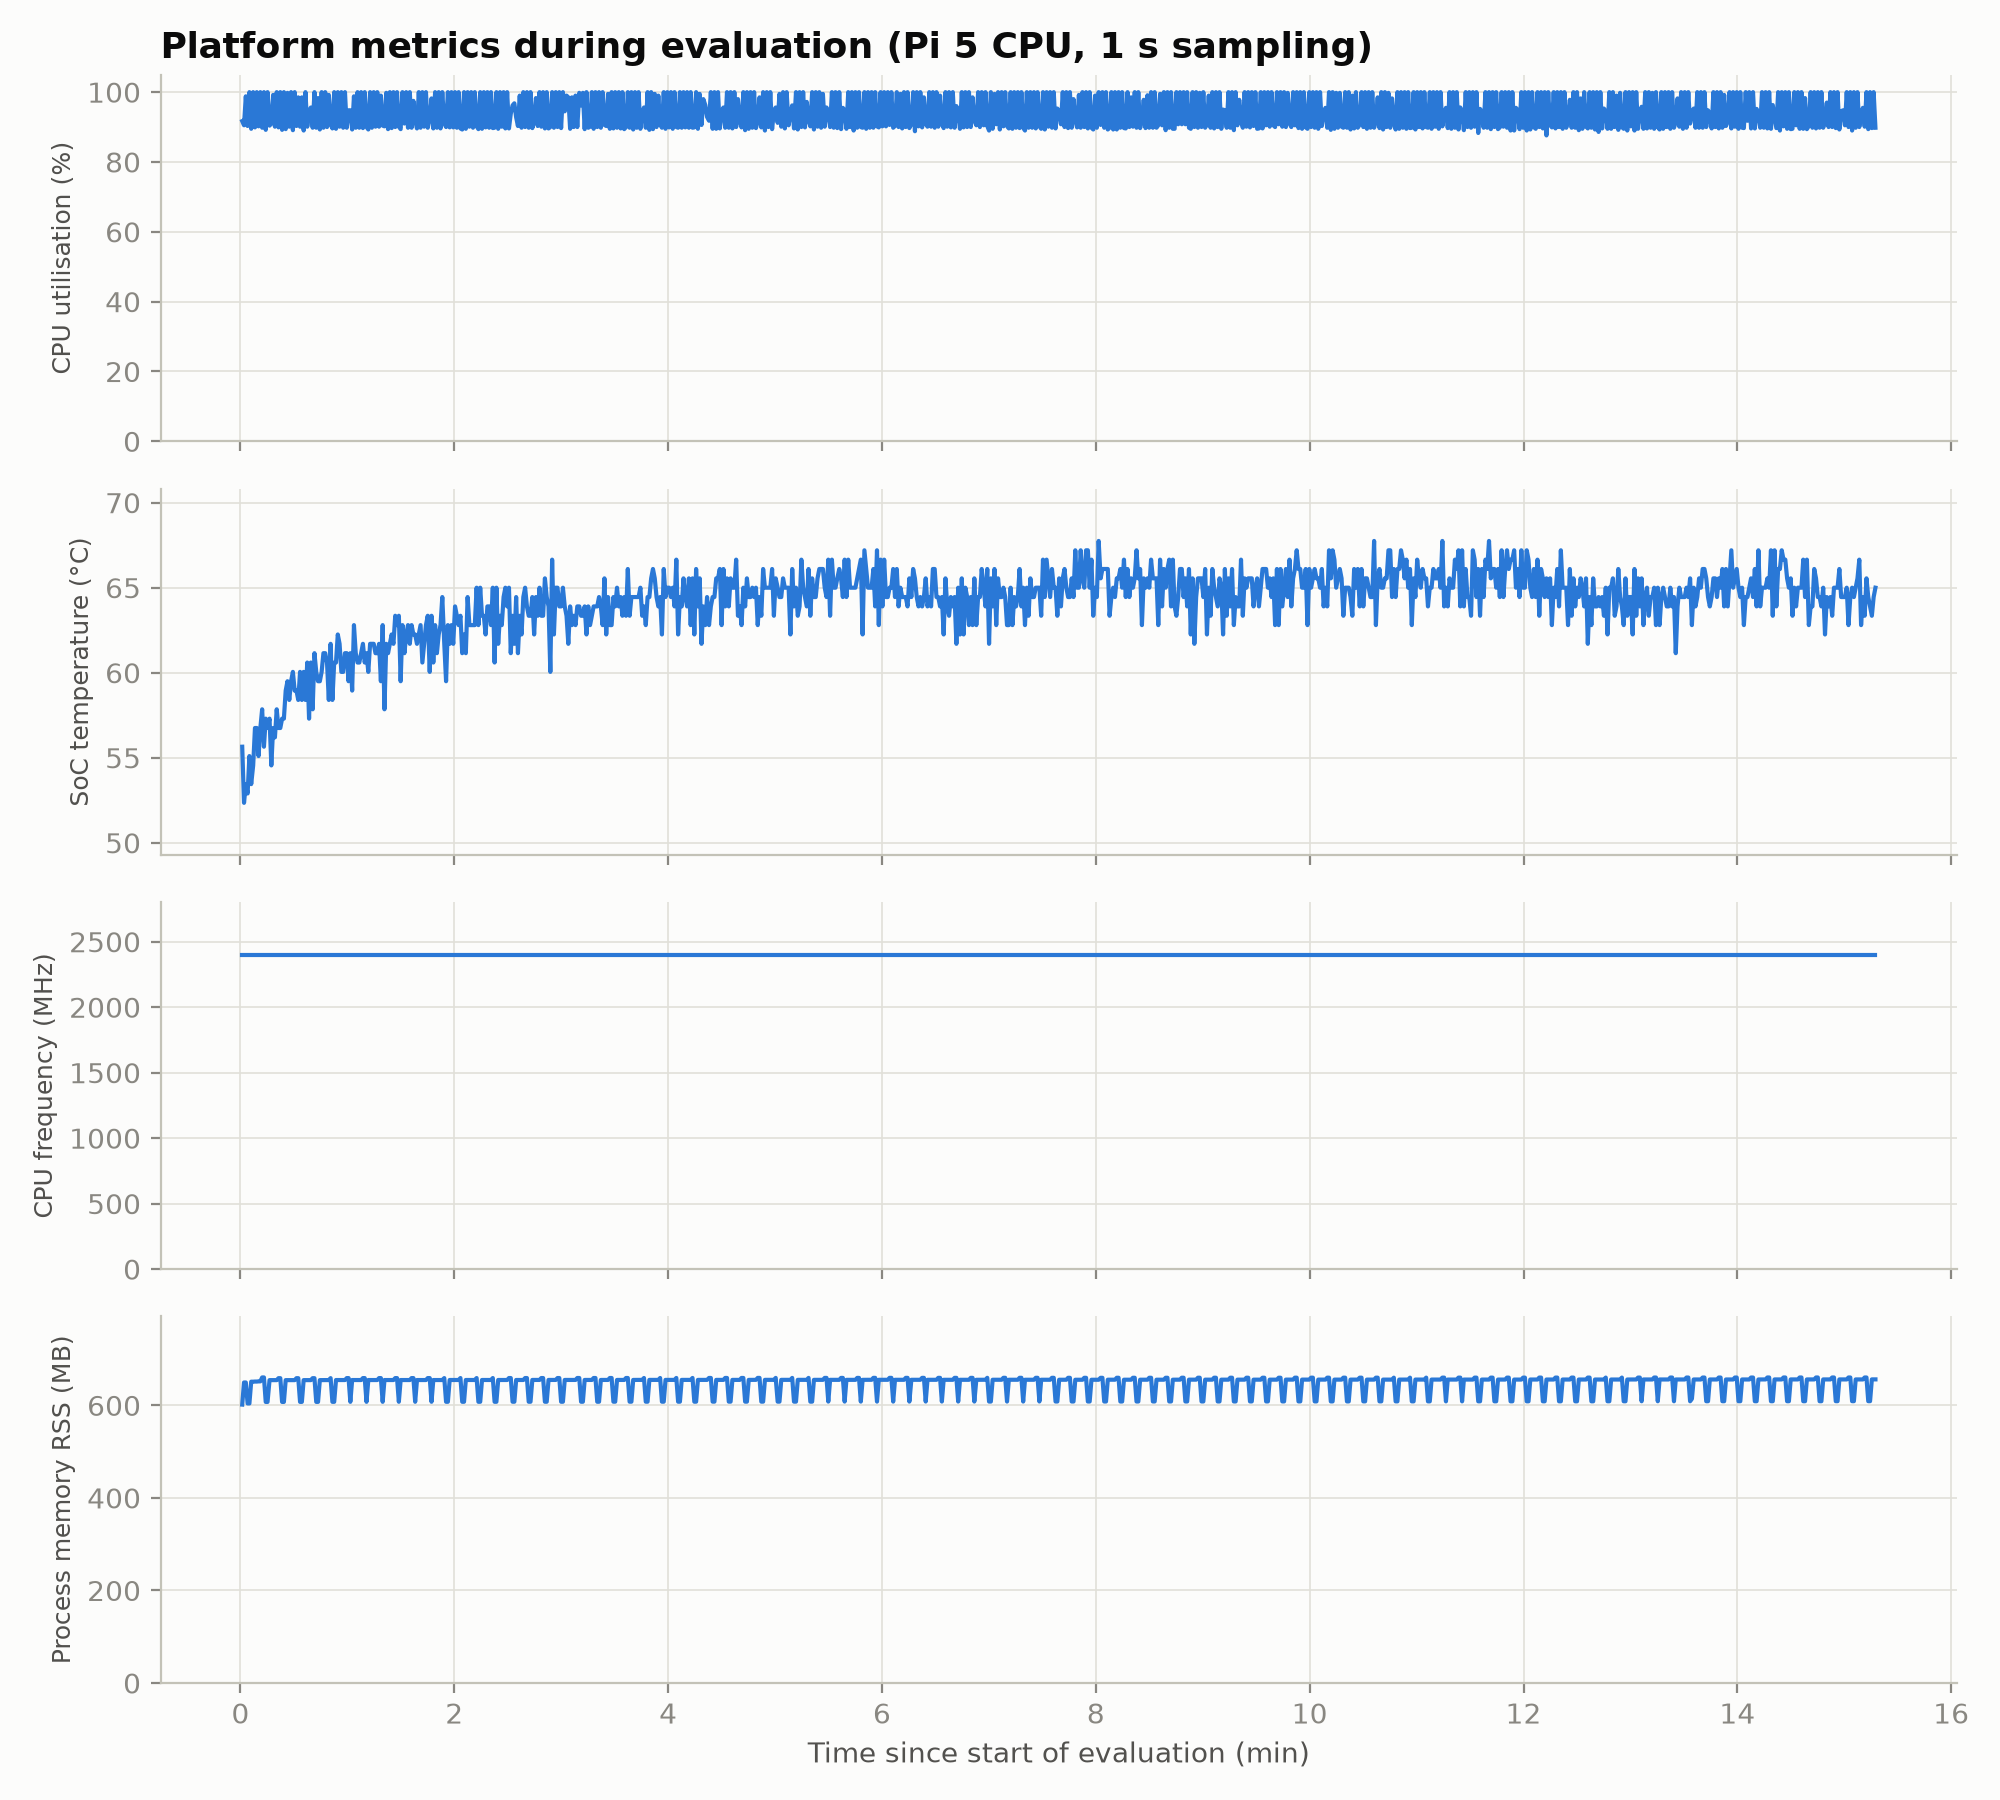
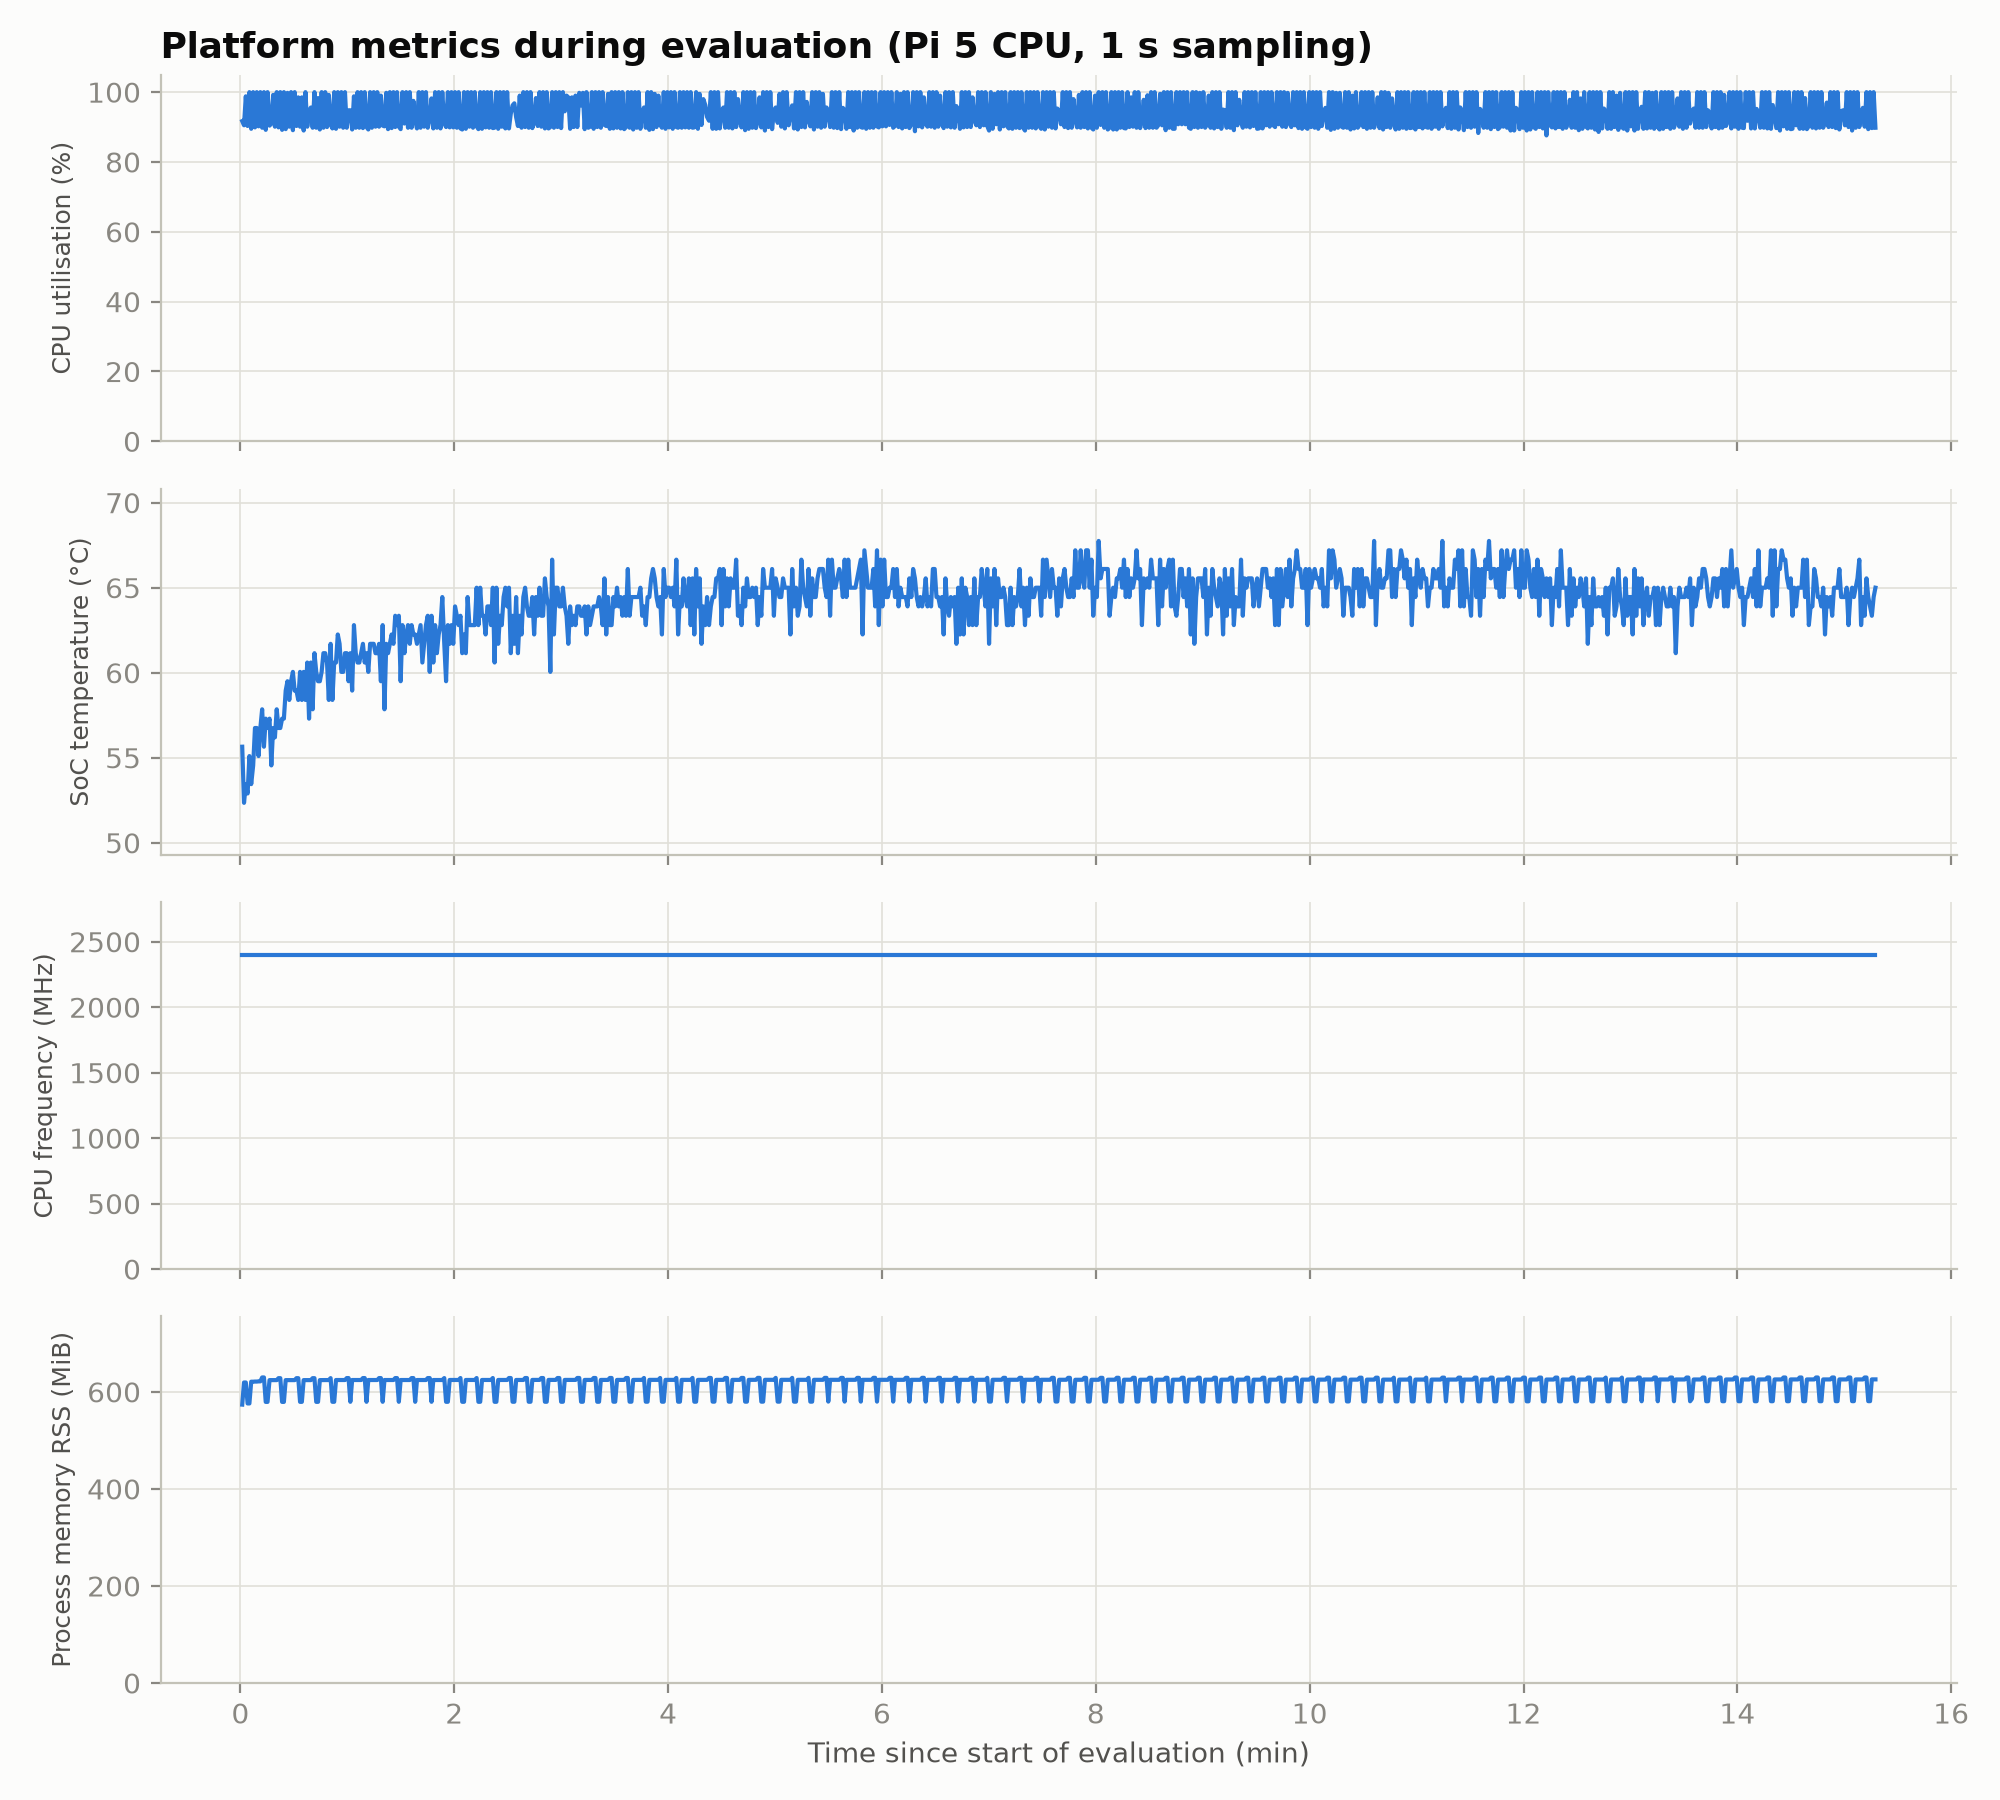
Modified the memory readings so there is a match between psutil and free -m readings, MB and MiB

Changed region(s): [[0.0, 0.7467, 0.093, 0.84], [0.031, 0.8711, 0.062, 0.9022]]

diff --git a/segmentation/semantic/01_fcn/fcn8_resnet18/run_eval.py b/segmentation/semantic/01_fcn/fcn8_resnet18/run_eval.py
@@ -2,7 +2,8 @@
 
 Writes to --out-dir:
   per_image.csv      one row per image: ISO timestamp, per-stage latency (load/pre/infer/post), pixel accuracy
-  system.csv         background samples every --interval s: CPU % (total + per core), freq, SoC temp, throttling, RAM, process RSS
+  system.csv         background samples every --interval s: CPU % (total + per core), freq, SoC temp, throttling,
+                     RAM used, page cache (buff/cache), process RSS - memory in MiB (2^20 bytes, as `free -m`)
   per_class_iou.csv  IoU for each of the 19 Cityscapes classes
   summary.json       mIoU, pixel accuracy, latency stats (mean/std/p50/p95), FPS, platform stats, environment
 
@@ -41,6 +42,7 @@ LABEL_TO_TRAIN = {7: 0, 8: 1, 11: 2, 12: 3, 13: 4, 17: 5, 19: 6, 20: 7, 21: 8, 2
 # MMSegmentation ImageNet normalization, RGB order (confirmed by the sanity check: RGB beats BGR).
 MEAN = np.array([123.675, 116.28, 103.53], np.float32)
 STD = np.array([58.395, 57.12, 57.375], np.float32)
+MIB = 2 ** 20  # memory is logged in MiB, the unit `free -m` reports
 
 
 def read_sysfs(path, scale):
@@ -74,6 +76,7 @@ class SystemMonitor(threading.Thread):
         t0 = time.monotonic()
         while not self.stop_event.wait(self.interval):
             per_core = psutil.cpu_percent(percpu=True)
+            vm = psutil.virtual_memory()
             self.rows.append({
                 "timestamp": datetime.now().isoformat(),
                 "elapsed_s": round(time.monotonic() - t0, 3),
@@ -83,9 +86,10 @@ class SystemMonitor(threading.Thread):
                 "cpu_freq_MHz": read_sysfs("/sys/devices/system/cpu/cpu0/cpufreq/scaling_cur_freq", 1000),
                 "soc_temp_C": read_sysfs("/sys/class/thermal/thermal_zone0/temp", 1000),
                 "throttled_flags_hex": read_throttled(),
-                "memory_percent": psutil.virtual_memory().percent,
-                "memory_used_MB": round(psutil.virtual_memory().used / 1e6, 1),
-                "process_rss_MB": round(self.proc.memory_info().rss / 1e6, 1),
+                "memory_percent": vm.percent,
+                "memory_used_MiB": round(vm.used / MIB, 1),
+                "memory_buff_cache_MiB": round((vm.buffers + vm.cached) / MIB, 1),
+                "process_rss_MiB": round(self.proc.memory_info().rss / MIB, 1),
             })
 
     def stop(self):
@@ -114,7 +118,9 @@ def environment_info(args, sess):
         "intra_op_threads": args.threads,
         "start_soc_temp_C": read_sysfs("/sys/class/thermal/thermal_zone0/temp", 1000),
         "start_throttled": read_throttled(),
-        "start_memory_used_MB": round(psutil.virtual_memory().used / 1e6, 1),
+        "memory_total_MiB": round(psutil.virtual_memory().total / MIB, 1),
+        "start_memory_used_MiB": round(psutil.virtual_memory().used / MIB, 1),
+        "start_memory_buff_cache_MiB": round((psutil.virtual_memory().buffers + psutil.virtual_memory().cached) / MIB, 1),
     }
 
 
@@ -254,8 +260,9 @@ def main():
             "cpu_total_percent": stats([r["cpu_total_percent"] for r in sysr]),
             "soc_temp_C": stats([r["soc_temp_C"] for r in sysr if r["soc_temp_C"] is not None]),
             "cpu_freq_MHz": stats([r["cpu_freq_MHz"] for r in sysr if r["cpu_freq_MHz"] is not None]),
-            "process_rss_MB": stats([r["process_rss_MB"] for r in sysr]),
-            "memory_used_MB": stats([r["memory_used_MB"] for r in sysr]),
+            "process_rss_MiB": stats([r["process_rss_MiB"] for r in sysr]),
+            "memory_used_MiB": stats([r["memory_used_MiB"] for r in sysr]),
+            "memory_buff_cache_MiB": stats([r["memory_buff_cache_MiB"] for r in sysr]),
             "throttled_flags_seen": sorted({r["throttled_flags_hex"] for r in sysr if r["throttled_flags_hex"]}),
         },
         "environment": env,

diff --git a/segmentation/semantic/01_fcn/fcn8_resnet18/plot_results.py b/segmentation/semantic/01_fcn/fcn8_resnet18/plot_results.py
@@ -17,6 +17,7 @@ import matplotlib.pyplot as plt  # noqa: E402
 BLUE, ORANGE = "#2a78d6", "#eb6834"
 INK, INK2, MUTED, GRID, AXIS, SURFACE = "#0b0b0b", "#52514e", "#898781", "#e1e0d9", "#c3c2b7", "#fcfcfb"
 HAILO_REF_MIOU = 69.4  # Hailo Model Zoo, fcn8_resnet_v1_18 float mIoU on Cityscapes
+MIB = 2 ** 20
 
 plt.rcParams.update({
     "figure.facecolor": SURFACE, "axes.facecolor": SURFACE, "savefig.facecolor": SURFACE,
@@ -98,12 +99,25 @@ def latency_per_image(rows, out):
     plt.close(fig)
 
 
+def to_mib(container, name):
+    """Memory field `name` in MiB. Runs before 2026-10-13 logged MB (10^6 bytes) as `<name>_MB`;
+    newer runs log MiB (2^20 bytes, as `free -m`) as `<name>_MiB`."""
+    if f"{name}_MiB" in container:
+        return container[f"{name}_MiB"]
+    v = container[f"{name}_MB"]
+    if isinstance(v, dict):  # summary.json stats block
+        return {k: round(x * 1e6 / MIB, 2) for k, x in v.items()}
+    return round(float(v) * 1e6 / MIB, 1)
+
+
 def platform_timeline(rows, out):
     t = [float(r["elapsed_s"]) / 60 for r in rows]
+    for r in rows:
+        r["process_rss_MiB"] = to_mib(r, "process_rss")
     panels = [("cpu_total_percent", "CPU utilisation (%)", (0, 105)),
               ("soc_temp_C", "SoC temperature (°C)", None),
               ("cpu_freq_MHz", "CPU frequency (MHz)", (0, 2800)),
-              ("process_rss_MB", "Process memory RSS (MB)", "zero")]
+              ("process_rss_MiB", "Process memory RSS (MiB)", "zero")]
     fig, axes = plt.subplots(len(panels), 1, figsize=(10, 9), sharex=True)
     for ax, (key, label, ylim) in zip(axes, panels):
         vals = [float(r[key]) if r[key] not in ("", "None") else float("nan") for r in rows]
@@ -139,7 +153,8 @@ def summary_table(s, out):
         ("CPU utilisation mean (%)", p["cpu_total_percent"].get("mean")),
         ("SoC temperature mean / max (°C)", f"{p['soc_temp_C'].get('mean')} / {p['soc_temp_C'].get('max')}"),
         ("CPU frequency min (MHz)", p["cpu_freq_MHz"].get("min")),
-        ("Process RSS max (MB)", p["process_rss_MB"].get("max")),
+        ("Process RSS mean / max (MiB)", f"{to_mib(p, 'process_rss')['mean']} / {to_mib(p, 'process_rss')['max']}"),
+        ("System RAM used mean / max (MiB)", f"{to_mib(p, 'memory_used')['mean']} / {to_mib(p, 'memory_used')['max']}"),
         ("Throttling flags seen", " ".join(p["throttled_flags_seen"]) or "none"),
         ("ONNX Runtime threads", s["environment"]["intra_op_threads"]),
     ]

diff --git a/segmentation/plan/PENDING.md b/segmentation/plan/PENDING.md
@@ -30,6 +30,8 @@ Things deferred until first results are in. Tick off as they are done.
 ## Platform profiling framework (Performance-Profiling-for-Edge-Devices)
 - [ ] Integrate the framework (github.com/sameer302/Performance-Profiling-for-Edge-Devices) for proper platform runs: clone as git submodule, per-experiment `experiment_config.json`, `PROTOCOL.md` (§4f), workload CSV with ISO `timestamp`, SIGTERM flush, warm-up, core pinning (monitor core 0, workload cores 1-3), 3 reps with 45-50°C cool-down, run outside Claude Code (§2)
 - [ ] Shared workload-side helper in `segmentation/common/` (per-stage timing, ISO timestamps, buffered CSV, SIGTERM flush)
+- [ ] Toolkit: log memory in MiB (2^20 bytes, as `free -m`) instead of MB (10^6) in `platform_monitor.py` (total RAM/swap print, `process_memory_rss_MB`), to match `run_eval.py` (switched to MiB on 2026-10-13)
+- [ ] Control page-cache state per run (cold: `drop_caches`, or warm: untimed pass) and log `buff/cache`; optional cold-vs-warm load-stage test (100 images)
 - [ ] Toolkit improvements before large sweeps: end workload phase when workload process exits; non-interactive pre-flight (wait-for-temperature or abort); sweep runner (configs x reps with cool-down)
 
 ## Documentation / tooling
